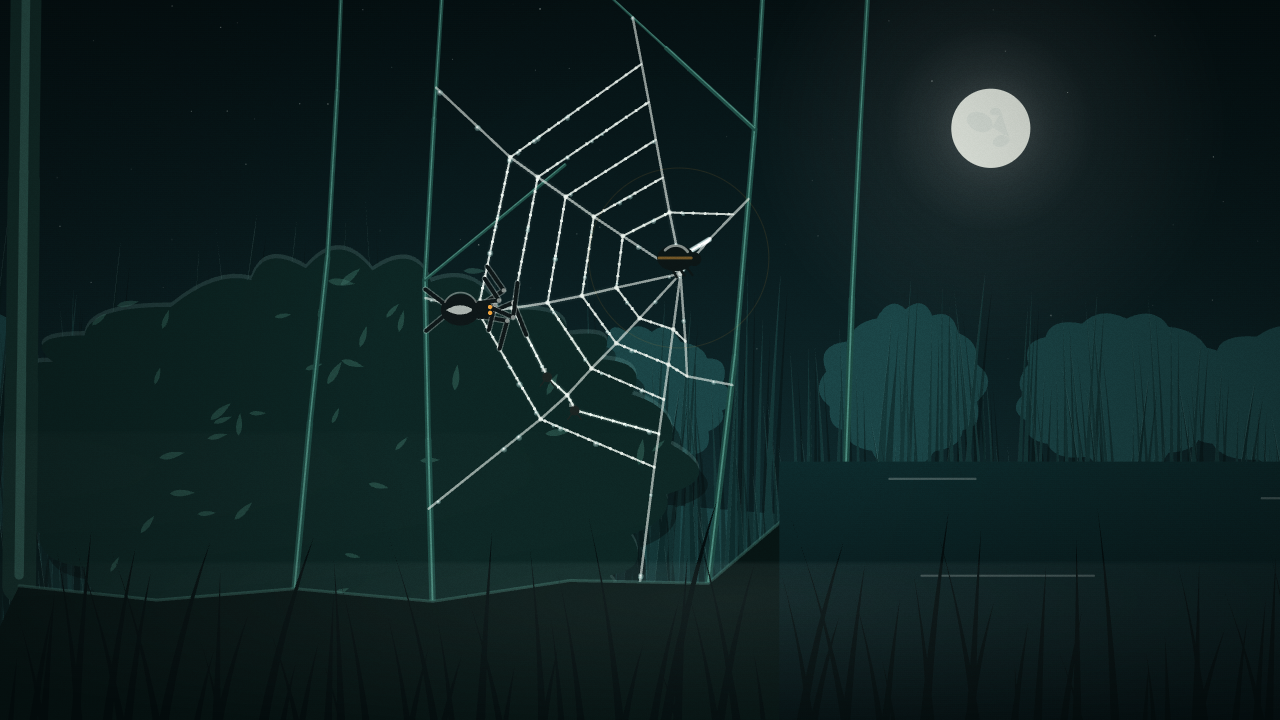
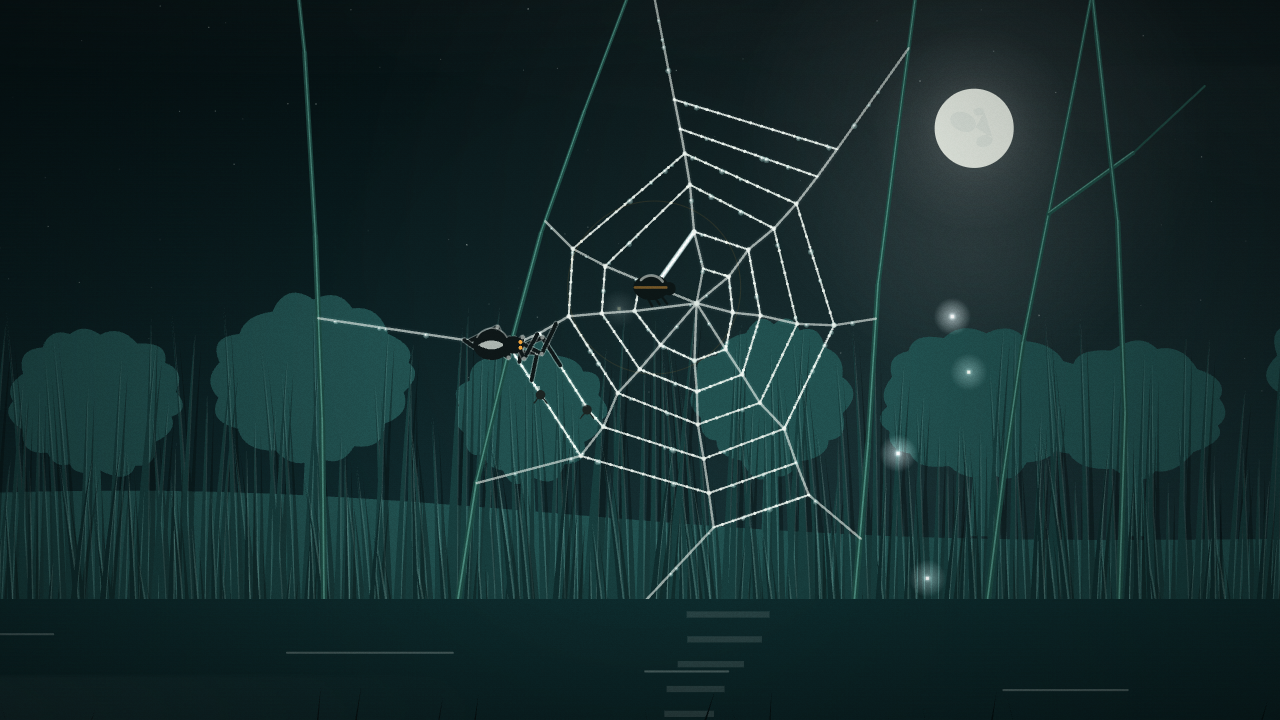
Recompose the store art: fuller orbs, a moonlit sky with depth, grass along the ground

diff --git a/game/js/render/poster.js b/game/js/render/poster.js
@@ -3,6 +3,7 @@
 import { Renderer } from './renderer.js';
 import { createWorld, stepWorld } from '../sim/world.js';
 import { placeAt } from '../sim/spider.js';
+import { planOrb, orbSteps } from '../sim/quickorb.js';
 import { spawnPrey, stick } from '../sim/prey.js';
 import { warnWren, spawnWasp } from '../sim/hostiles.js';
 import { T_STICKY, T_SURFACE, N_PREY } from '../sim/data.js';
@@ -46,12 +47,70 @@ function nightWith(o) {
   sp.mods.maxSilk = 400;
   sp.mods.range = 2000;
   const site = o.site ? o.site(w) : (w.garden.sites.find((x) => x.lane === 0) ?? w.garden.sites[0]);
+  if (o.frame) frameAround(w, sp, site, o.frame);
+  if (o.best === 'any') {
+    // Every site in the garden: the one that makes the handsomest orb.
+    let top = null;
+    for (const cand of w.garden.sites) {
+      const pick = roundest(w, cand, o.r ?? 110);
+      if (!top || pick.score > top.score) top = pick;
+    }
+    if (top) Object.assign(site, top);
+  } else if (o.best) Object.assign(site, roundest(w, site, o.r ?? 110));
   if (o.web !== false) {
     w.cmds.push({ id: 'p', t: 'orb', x: site.x, y: site.y, r: o.r ?? Math.max(95, site.r), p: o.pattern ?? 'orb' });
     for (let i = 0; i < 60 * 9; i++) stepWorld(w, {});
   }
   w.weather.sway = 0.1;
   return { w, sp, site };
+}
+
+/** The hub near a site that gives the fullest, most even orb (the poster wants a handsome web). */
+function roundest(w, site, r) {
+  let best = { x: site.x, y: site.y, score: -Infinity };
+  let bs = -Infinity;
+  for (let dy = -90; dy <= 90; dy += 15) {
+    for (let dx = -120; dx <= 120; dx += 15) {
+      const plan = planOrb(w.web, site.x + dx, site.y + dy, r, 'orb', 2000);
+      if (!plan.ok) continue;
+      const ends = plan.ends.filter(Boolean);
+      if (ends.length < 8) continue;
+      const ds = ends.map((e) => e.d);
+      const mean = ds.reduce((a, b) => a + b, 0) / ds.length;
+      const spread = Math.sqrt(ds.reduce((a, d) => a + (d - mean) ** 2, 0) / ds.length);
+      const score = orbSteps(plan).length * 2 - spread * 0.8 - Math.hypot(dx, dy) * 0.05;
+      if (score > bs) {
+        bs = score;
+        best = { x: site.x + dx, y: site.y + dy, score };
+      }
+    }
+  }
+  return best;
+}
+
+/** A frame first, the way a real orb weaver starts: a ring of strong lines between anchors around the site. */
+function frameAround(w, sp, site, R) {
+  const web = w.web;
+  const pts = [];
+  for (let k = 0; k < 7; k++) {
+    const a = (k / 7) * Math.PI * 2 - Math.PI / 2;
+    const near = web.nearestThread(site.x + Math.cos(a) * R, site.y + Math.sin(a) * R, R * 0.7);
+    if (near) pts.push(near);
+  }
+  for (let k = 0; k < pts.length; k++) {
+    const a = pts[k];
+    const b = pts[(k + 1) % pts.length];
+    const from = web.nearestNode(a.x, a.y, 30);
+    placeAt(w, sp, from ? from.id : web.nid[web.ta[a.s]]);
+    sp.busy = 0;
+    sp.act = null;
+    w.cmds.push({ id: 'p', t: 'cast', type: 0, x: b.x, y: b.y });
+    stepWorld(w, {});
+  }
+  // Spokes reach the frame: go back to the middle.
+  const mid = web.nearestNode(site.x, site.y, 400, (s2) => web.adj[s2].length > 0);
+  if (mid) placeAt(w, sp, mid.id);
+  for (let i = 0; i < 30; i++) stepWorld(w, {});
 }
 
 function dew(w, amount) {
@@ -106,18 +165,20 @@ function frame(w, sp, extra = {}) {
 const SCENES = {
   // The cover: a dewy orb in moonlight, a moth stuck, the spider on its way to it.
   thumb1() {
-    const { w, sp, site } = nightWith({ seed: 20261002, garden: 'cottage', r: 120 });
+    // A seed and hub chosen for a full, even orb on the main lane (searched with planOrb).
+    const { w, sp, site } = nightWith({ seed: 253408, garden: 'cottage', r: 115, site: () => ({ x: 479, y: 429, r: 115 }) });
     dew(w, 0.55);
     const moth = stickAt(w, 'moth', site.x + 45, site.y + 28);
+    if (moth) moth.big = true;
     stickAt(w, 'gnat', site.x - 50, site.y - 30);
     stickAt(w, 'fly', site.x - 20, site.y + 60, 0.6);
     if (moth) walkTo(w, sp, moth.x - 40, moth.y - 18);
     sp.facing = 0.3;
     for (let i = 0; i < 30; i++) stepWorld(w, {});
     for (const p of w.prey) p.timer = 99;
-    const view = frame(w, sp, { site: { x: site.x + 70, y: site.y - 45, r: 105 } });
+    const view = frame(w, sp, { site: { x: site.x + 50, y: site.y - 5, r: 105 } });
     return {
-      zoom: 1.18,
+      zoom: 1.04,
       view,
       after(r) {
         const ctx = r.ctx;
@@ -134,7 +195,7 @@ const SCENES = {
   },
   // The web singing: a beetle has just hit it; brightness runs out along the threads and rings spread.
   thumb2() {
-    const { w, sp, site } = nightWith({ seed: 777001, garden: 'reed', r: 110, site: (wd) => [...wd.garden.sites].sort((a, b) => b.y - a.y)[0] });
+    const { w, sp, site } = nightWith({ seed: 777001, garden: 'reed', r: 110, best: true, site: (wd) => ({ ...[...wd.garden.sites].sort((a, b) => b.y - a.y)[0] }) });
     dew(w, 0.4);
     const beetle = stickAt(w, 'beetle', site.x + 12, site.y - 16);
     if (beetle) beetle.st = 'subdued';
@@ -151,11 +212,11 @@ const SCENES = {
       }
       fx.ring(beetle.x, beetle.y, 1, true);
     }
-    return { zoom: 1.3, view: frame(w, sp, { site: { x: site.x, y: site.y + 60, r: 110 }, mist: 0.25 }) };
+    return { zoom: 1.25, view: frame(w, sp, { site: { x: site.x, y: site.y + 20, r: 110 }, mist: 0.25 }) };
   },
   // The wren's shadow over the web; the spider drops out of its way.
   thumb3() {
-    const { w, sp, site } = nightWith({ seed: 31337, garden: 'churchyard', r: 110 });
+    const { w, sp, site } = nightWith({ seed: 31337, garden: 'churchyard', r: 110, best: true });
     dew(w, 0.25);
     stickAt(w, 'moth', site.x + 30, site.y + 20, 1);
     walkTo(w, sp, site.x, site.y + 70);

diff --git a/game/js/render/gardenart.js b/game/js/render/gardenart.js
@@ -325,11 +325,38 @@ export function drawDecor(ctx, world, t, q) {
 }
 
 /** The ground strip and (in the reed bed) the pond, drawn over the bottom of everything. */
+function tufts(g, web, row) {
+  const p = new Path2D();
+  const r = makeRng(g.seed ^ 0x7f7);
+  for (let i = 1; i < row.length; i++) {
+    const a = web.ni(row[i - 1]);
+    const b = web.ni(row[i]);
+    if (a < 0 || b < 0) continue;
+    for (let f = 0; f < 1; f += range(r, 0.08, 0.22)) {
+      const x = web.x[a] + (web.x[b] - web.x[a]) * f;
+      const y = web.y[a] + (web.y[b] - web.y[a]) * f + 2;
+      if (g.water && x > g.water.x0 && x < g.water.x1) continue;
+      const n = 2 + Math.floor(rand(r) * 3);
+      for (let k = 0; k < n; k++) {
+        const h = range(r, 8, 26);
+        const lean = range(r, -0.45, 0.45) * h;
+        p.moveTo(x - 1.6 + k * 2, y);
+        p.quadraticCurveTo(x + k * 2 + lean * 0.3, y - h * 0.6, x + k * 2 + lean, y - h);
+        p.quadraticCurveTo(x + k * 2 + lean * 0.3 + 1.4, y - h * 0.5, x + 1.6 + k * 2, y);
+      }
+    }
+  }
+  return p;
+}
+
 export function drawGround(ctx, world, t, q) {
   const g = world.garden;
   const web = world.web;
   const row = g.nodeIds?.[0];
   if (!row) return;
+  g.tufts ??= tufts(g, web, row);
+  ctx.fillStyle = '#0e2523';
+  ctx.fill(g.tufts);
   ctx.fillStyle = '#071514';
   ctx.beginPath();
   ctx.moveTo(-200, H + 300);

diff --git a/game/js/render/hud.js b/game/js/render/hud.js
@@ -83,14 +83,16 @@ export function drawHud(ctx, h, w, ht, t) {
   // ---- thread in hand (orb weaver): a row of glyphs with their keys, bottom centre
   if (h.types) {
     const n = TYPES.length;
-    const gap = touch ? 0 : 50;
+    const gap = touch ? 0 : 46;
     const by = ht - (touch ? 132 : 34);
+    // Keyboard and mouse: the row lives in the lower left, out of the middle of the night.
+    const rowX = touch ? cx : 36 + ((n - 1) / 2) * gap;
     if (touch) {
       glyph(ctx, h.type, cx, by, 1.3, SILVER);
       text(ctx, h.pattern ?? TYPES[h.type], cx, by + 22, 15, rgba(SILVER, 0.85));
     } else {
       for (let i = 0; i < n; i++) {
-        const x = cx + (i - (n - 1) / 2) * gap;
+        const x = rowX + (i - (n - 1) / 2) * gap;
         const on = i === h.type;
         if (on) {
           ctx.fillStyle = rgba(SILVER, 0.12);
@@ -101,7 +103,7 @@ export function drawHud(ctx, h, w, ht, t) {
         glyph(ctx, i, x, by - 6, 1, on ? SILVER : rgba(SILVER, 0.45));
         text(ctx, `${i + 1}`, x, by + 13, 12, on ? AMBER : rgba(SILVER, 0.45), 'center', 600);
       }
-      text(ctx, h.pattern ?? TYPES[h.type], cx, by - 34, 15, rgba(SILVER, 0.75));
+      text(ctx, h.pattern ?? TYPES[h.type], rowX, by - 34, 15, rgba(SILVER, 0.75));
     }
   }
   // ---- warnings at the edges

diff --git a/game/js/render/backdrop.js b/game/js/render/backdrop.js
@@ -274,6 +274,9 @@ export function drawBackdrop(ctx, bd, cam, pr, t, q) {
   const mr = Math.max(18, Math.min(w, h) * 0.055);
   const mx = m.x * w - drift * 1.4;
   const my = m.y * h;
+  // Moonlight in the air: the sky around the moon a shade paler, far beyond the halo.
+  ctx.globalAlpha = 0.1;
+  ctx.drawImage(glow, mx - mr * 16, my - mr * 12, mr * 32, mr * 30);
   ctx.globalAlpha = 0.16;
   ctx.drawImage(glow, mx - mr * 6, my - mr * 6, mr * 12, mr * 12);
   ctx.globalAlpha = 0.22;
@@ -301,8 +304,8 @@ export function drawBackdrop(ctx, bd, cam, pr, t, q) {
       ctx.fill(L.path);
       ctx.restore();
       ctx.save();
-      ctx.translate(0, -2.2);
-      ctx.fillStyle = `rgba(150, 196, 188, ${0.1 + i * 0.03})`;
+      ctx.translate((bd.moon.x - 0.5) * 3, -2.4);
+      ctx.fillStyle = `rgba(160, 206, 196, ${0.12 + i * 0.05})`;
       ctx.fill(L.path);
       ctx.restore();
     }

diff --git a/game/js/render/palette.js b/game/js/render/palette.js
@@ -8,7 +8,7 @@ export const PAPER = '#efe4cb'; // the notebook
 export const RUST = '#a9442c'; // danger, stamps
 
 /** Parallax layers from far to near, each a little darker and greener. */
-export const LAYERS = ['#1b4547', '#143637', '#0e2a2b', '#091d1e'];
+export const LAYERS = ['#21504f', '#173d3d', '#0f2c2d', '#081b1c'];
 export const SKY_TOP = '#051113';
 export const SKY_LOW = '#133236';
 export const RIM = 'rgba(160, 204, 196, 0.32)';
